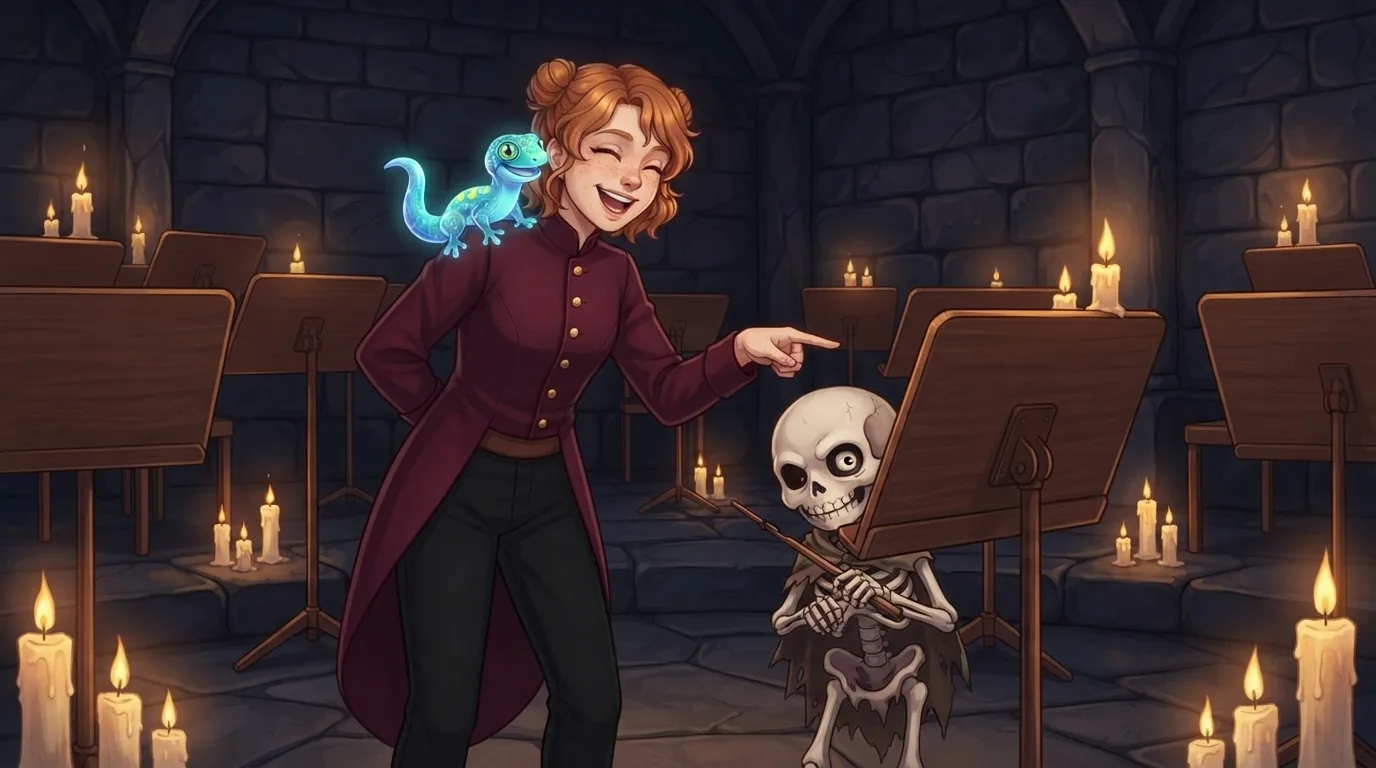
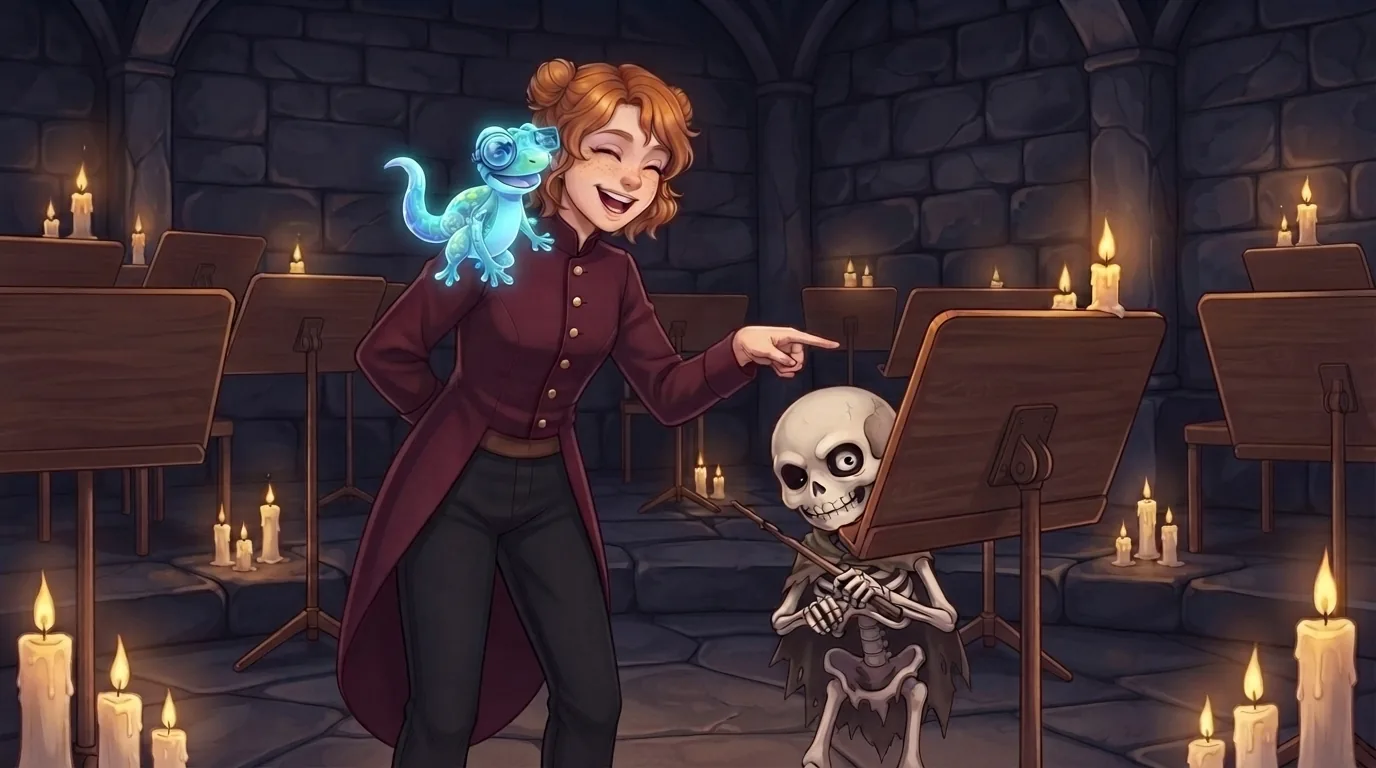
content(csharp): las 10 escenas con Gheco lo muestran como el oficial; pendientes.py ya no pide manchas amarillas
ESCENAS.md anota la imagen de origen, qué referencias difieren (C++ y PHP) y cómo pedirlo en Stitch.

diff --git a/scripts/escenas/pendientes.py b/scripts/escenas/pendientes.py
@@ -45,7 +45,7 @@ REFS = {
             (r'Drag[oó]n', 'el Dragón bajo la Montaña', ['1beb2b13ac2740e39ec873e25f0a9d2a', '05f46ee7ccb54ec5b3521163315fe841'], ''),
             (r'Salamandra', 'la Salamandra del Horno', ['f00b5bd8e0b541fd925273a2f23e8a1e', 'f94717f4f0ea4451a188eeb0c6077d24'], ''),
             (r'Aut[oó]mata Guardi[aá]n', 'el Autómata Guardián', ['be394c154b3544cd84a0f6cb5304046d', 'ae330b94011143dd97df7dab07894b9c'], ''),
-            (r'Gheco|gecko', 'Gheco', ['7475890398726357700'], 'Gheco es un gecko chiquito, que cabe en la palma de una mano, de color cian brillante con manchas amarillas.'),
+            (r'Gheco|gecko', 'Gheco', ['7475890398726357700'], 'Gheco es un gecko chiquito, que cabe en la palma de una mano, exactamente como en su referencia: mascota de caricatura FLACA y ALARGADA (cuello largo, torso angosto, patas finas, cola larga y fina; nunca gordito ni chibi), aguamarina claro translúcido y liso con brillo cian, finas líneas de circuito, antiparras de aviador con lente redondo y visor holográfico al costado, sin manchas.'),
         ],
     },
     # D110: el Gólem duerme debajo de las Forjas, así que sus escenas van en el proyecto de C (ahí están Gheco y Kira).
@@ -59,7 +59,7 @@ REFS = {
             (r'Ax[oó]n', 'Axón', ['a3f048dbdb0144748446e592787f2bdb', 'c4b3a82e96bb49e689670d429bea0fba'],
              'Axón es un gólem de bronce de cuatro metros: Nova le llega a la rodilla.'),
             (r'(?<!que )\bKira\b', 'Kira', ['14393643890262141765', '14393643890262141939'], ''),
-            (r'Gheco|gecko', 'Gheco', ['7475890398726357700'], 'Gheco es un gecko chiquito, que cabe en la palma de una mano, de color cian brillante con manchas amarillas.'),
+            (r'Gheco|gecko', 'Gheco', ['7475890398726357700'], 'Gheco es un gecko chiquito, que cabe en la palma de una mano, exactamente como en su referencia: mascota de caricatura FLACA y ALARGADA (cuello largo, torso angosto, patas finas, cola larga y fina; nunca gordito ni chibi), aguamarina claro translúcido y liso con brillo cian, finas líneas de circuito, antiparras de aviador con lente redondo y visor holográfico al costado, sin manchas.'),
         ],
     },
     'cpp': {
@@ -76,7 +76,7 @@ REFS = {
             # Solo el cuerpo entero: los circulares de este proyecto llevan el nombre escrito y Stitch lo copiaría.
             # Bron y Gheco se generaron en este proyecto el 2026-10-11 desde sus fichas y sus imágenes (no estaban subidos).
             (r'\bBron\b', 'Bron', ['36fd6421d03b45329e15255c57bf1d96'], 'Bron es un mecánico grandote de 24 años, alto y ancho, con una llave inglesa cian al hombro.'),
-            (r'Gheco|gecko', 'Gheco', ['8b96c262b47549dbb5a441fb463377a5'], 'Gheco es un gecko chiquito, que cabe en la palma de una mano, de color cian brillante con manchas amarillas.'),
+            (r'Gheco|gecko', 'Gheco', ['8b96c262b47549dbb5a441fb463377a5'], 'Gheco es un gecko chiquito, que cabe en la palma de una mano, exactamente como en su referencia: mascota de caricatura FLACA y ALARGADA (cuello largo, torso angosto, patas finas, cola larga y fina; nunca gordito ni chibi), aguamarina claro translúcido y liso con brillo cian, finas líneas de circuito, antiparras de aviador con lente redondo y visor holográfico al costado, sin manchas.'),
             (r'\bTesla\b', 'Tesla', ['17568498787211306263'], 'Tesla es un muchacho de estatura mediana (1,75 m), delgado, de pelo en punta y visor cian.'),
             (r'\bLima\b', 'Lima', ['3741430dea15423a86d24bbd54d5c72f'], 'Lima es una chica chiquita (1,52 m), mucho más baja que los demás, con dos rodetes y una lupa de relojera en un ojo.'),
             (r'Maestra Art[ií]fice|[Ii]nspectora', 'la Maestra Artífice', ['4954292303660227400'], 'La Maestra Artífice es una mujer alta (1,72 m), delgada y erguida.'),
@@ -109,7 +109,7 @@ REFS = {
             # Generados en este proyecto el 2026-10-11 (Nilo y Elefa desde sus imágenes oficiales; el resto, desde sus fichas).
             (r'\bNilo\b', 'Nilo', ['3defe2e1780843e09e4c04400943f0b8'], 'Nilo es un muchacho de 17 años, de estatura mediana (1,70 m) y delgado, con gorra de mensajero y bufanda violeta.'),
             (r'\bElefa\b', 'Elefa', ['ede888afd1934fa6a2d4853f2f4ef6b1'], 'Elefa es una elefanta enorme (2,60 m) erguida en dos patas, con armadura: le saca casi un metro a una persona.'),
-            (r'Gheco|gecko', 'Gheco', ['bce6aece6b9c43939e86fd2b757679ad'], 'Gheco es un gecko chiquito, que cabe en la palma de una mano, de color cian brillante con manchas amarillas.'),
+            (r'Gheco|gecko', 'Gheco', ['bce6aece6b9c43939e86fd2b757679ad'], 'Gheco es un gecko chiquito, que cabe en la palma de una mano, exactamente como en su referencia: mascota de caricatura FLACA y ALARGADA (cuello largo, torso angosto, patas finas, cola larga y fina; nunca gordito ni chibi), aguamarina claro translúcido y liso con brillo cian, finas líneas de circuito, antiparras de aviador con lente redondo y visor holográfico al costado, sin manchas.'),
             (r'\bIara\b', 'Iara', ['5d09d4c2cd01468999e671616ec88913'], 'Iara es bajita (1,58 m): más baja que Nilo.'),
             (r'Ferm[ií]n|[Bb]odeguero', 'Fermín', ['fc1a64872e8e420ab4ca98a70c73800a'], 'Fermín es un anciano bajo y encorvado.'),
             (r'\bMarea\b|[Ff]arera', 'Marea', ['15758130c92349e88c7ca83c931fcae1'], 'Marea es una mujer alta (1,78 m) y fuerte: más alta que Nilo.'),
@@ -134,7 +134,7 @@ REFS = {
              'Iris lleva UNA SOLA trenza gruesa, de costado, que le cae sobre un hombro (nunca dos trenzas), pelo castaño cobrizo con mechones de colores dentro de la trenza, anteojos redondos.'),
             (r'Tesela', 'Tesela', ['1156350282938354434', '1156350282938353708'],
              'Tesela e Iris son casi de la misma altura (Tesela apenas unos centímetros más alta).'),
-            (r'Gheco|gecko', 'Gheco', ['11514129442070458985'], 'Gheco es un gecko chiquito, que cabe en la palma de una mano, de color cian brillante con manchas amarillas.'),
+            (r'Gheco|gecko', 'Gheco', ['11514129442070458985'], 'Gheco es un gecko chiquito, que cabe en la palma de una mano, exactamente como en su referencia: mascota de caricatura FLACA y ALARGADA (cuello largo, torso angosto, patas finas, cola larga y fina; nunca gordito ni chibi), aguamarina claro translúcido y liso con brillo cian, finas líneas de circuito, antiparras de aviador con lente redondo y visor holográfico al costado, sin manchas.'),
             # Subidos el 2026-10-10. Solo el cuerpo entero: los circulares llevan el nombre escrito y Stitch lo copiaría.
             (r'\bNora\b', 'Nora', ['e01c853235f1406f8ae015a41a3ddb13'],
              'Nora es ciega y alta, más alta que Iris; lleva túnica gris perla y un bastón blanco.'),
@@ -163,7 +163,7 @@ REFS = {
             (r'\bNilo\b', 'Nilo', ['55c53c1c0629482192ef2cf0e90c7370'], 'Nilo es un muchacho de 17 años, con gorra de mensajero y bufanda violeta.'),
             (r'\bNima\b', 'Nima', ['0f9fcc6dde3f450e96c11f25612bdfa3'], 'Nima tiene la piel morena oscura, una trenza negra alta y un saco de cuero negro largo hasta los muslos, cerrado del cuello hasta abajo.'),
             (r'\bBruno\b', 'Bruno', ['aa2b4f906be344918c60e9553fed907c'], 'Bruno es un chico de 12 años, con gorra negra al revés, chaleco ROJO inflado sobre buzo oscuro.'),
-            (r'Gheco|gecko', 'Gheco', ['11514129442070458985'], 'Gheco es un gecko chiquito, que cabe en la palma de una mano, de color cian brillante con manchas amarillas.'),
+            (r'Gheco|gecko', 'Gheco', ['11514129442070458985'], 'Gheco es un gecko chiquito, que cabe en la palma de una mano, exactamente como en su referencia: mascota de caricatura FLACA y ALARGADA (cuello largo, torso angosto, patas finas, cola larga y fina; nunca gordito ni chibi), aguamarina claro translúcido y liso con brillo cian, finas líneas de circuito, antiparras de aviador con lente redondo y visor holográfico al costado, sin manchas.'),
         ],
     },
     'javascript': {
@@ -187,7 +187,7 @@ REFS = {
             # La segunda referencia es la escena de la calesita (R01-N03-P1): ahí la ropa salió cerrada; con la ficha sola, el modelo liviano a veces le deja la panza al aire.
             (r'\bNima\b', 'Nima', ['2fca95e351484814bbdeb8294f4c623b', 'c1beb5a9084e4492b1d9fb759dd0eb35'], 'Nima aparece UNA sola vez. Nima tiene la piel morena oscura y lleva un saco de cuero negro largo hasta los muslos, cerrado del cuello hasta abajo, que le tapa toda la cintura (si la chaqueta es corta, Stitch le deja la panza al aire).'),
             (r'Lumina', 'Lumina', ['bdf51a14044046ffbd08a31cec35773e'], 'Lumina es una luciérnaga enorme, del tamaño de una persona, que flota: un INSECTO de verdad, como en su referencia (seis patitas, antenas, coronita dorada, alas de vidrio y el abdomen que brilla amarillo); nada de hada ni de cuerpo de persona.'),
-            (r'Gheco|gecko', 'Gheco', ['11514129442070458985'], 'Gheco es un gecko chiquito, que cabe en la palma de una mano, de color cian brillante con manchas amarillas.'),
+            (r'Gheco|gecko', 'Gheco', ['11514129442070458985'], 'Gheco es un gecko chiquito, que cabe en la palma de una mano, exactamente como en su referencia: mascota de caricatura FLACA y ALARGADA (cuello largo, torso angosto, patas finas, cola larga y fina; nunca gordito ni chibi), aguamarina claro translúcido y liso con brillo cian, finas líneas de circuito, antiparras de aviador con lente redondo y visor holográfico al costado, sin manchas.'),
             (r'\bBruno\b', 'Bruno', ['aa2b4f906be344918c60e9553fed907c'], 'Bruno es un chico de 12 años, con gorra negra al revés, chaleco ROJO inflado sobre buzo oscuro y zapatillas rojas.'),
             (r'\bTati\b', 'Tati', ['4ed7e467fe034ed48f852420a3cbebf3'], 'Tati es una chica de 11 años, bajita, de piel clara, dos coletas negras, vestido azul con cuello blanco y delantal amarillo.'),
             (r'\bLucio\b', 'Lucio', ['edd2a5c8a13b42318521115982f1721c'], 'Lucio es un viejo flaco y alto.'),
@@ -239,7 +239,7 @@ REFS = {
              'Iris lleva UNA SOLA trenza gruesa, de costado, que le cae sobre un hombro (nunca dos trenzas), pelo castaño cobrizo con mechones de colores dentro de la trenza, anteojos redondos.'),
             (r'Tesela', 'Tesela', ['1156350282938354434', '1156350282938353708'],
              'Tesela e Iris son casi de la misma altura (Tesela apenas unos centímetros más alta).'),
-            (r'Gheco|gecko', 'Gheco', ['11514129442070458985'], 'Gheco es un gecko chiquito, que cabe en la palma de una mano, de color cian brillante con manchas amarillas.'),
+            (r'Gheco|gecko', 'Gheco', ['11514129442070458985'], 'Gheco es un gecko chiquito, que cabe en la palma de una mano, exactamente como en su referencia: mascota de caricatura FLACA y ALARGADA (cuello largo, torso angosto, patas finas, cola larga y fina; nunca gordito ni chibi), aguamarina claro translúcido y liso con brillo cian, finas líneas de circuito, antiparras de aviador con lente redondo y visor holográfico al costado, sin manchas.'),
             (r'\bNora\b', 'Nora', ['e01c853235f1406f8ae015a41a3ddb13'],
              'Nora es ciega y alta, más alta que Iris; lleva túnica gris perla y un bastón blanco.'),
             (r'\bTeo\b', 'Teo', ['21a330a7f37f44ae88efae1965f5261c'],
@@ -261,7 +261,7 @@ REFS = {
             (r'\bMia\b', 'Mia', ['5963293020836080820'], 'Mia es bajita (1,55 m) y delgada.'),
             (r'\bTilo\b', 'Tilo', ['5696938930910017018'], 'Tilo es un chico bajo, flaco y fibroso, descalzo.'),
             (r'Ofidia', 'Ofidia', ['10928700517117951865'], 'Ofidia es muy alta (1,90 m) y esbelta: le saca más de una cabeza a Mia.'),
-            (r'Gheco|gecko', 'Gheco', ['15690829756280996174'], 'Gheco es un gecko chiquito, que cabe en la palma de una mano, de color cian brillante con manchas amarillas.'),
+            (r'Gheco|gecko', 'Gheco', ['15690829756280996174'], 'Gheco es un gecko chiquito, que cabe en la palma de una mano, exactamente como en su referencia: mascota de caricatura FLACA y ALARGADA (cuello largo, torso angosto, patas finas, cola larga y fina; nunca gordito ni chibi), aguamarina claro translúcido y liso con brillo cian, finas líneas de circuito, antiparras de aviador con lente redondo y visor holográfico al costado, sin manchas.'),
             (r'Guardi[aá]n del Puente', 'el Guardián del Puente', ['13111980321235167624'], ''),
             (r'Archivista', 'el Archivista Corrupto', ['76f4476e7b8e459fa75b72cbe7906fbb'], ''),
             (r'G[oó]lem', 'el Gólem del Reloj', ['11d43dda059d4a2b8de8c6e1c8077d0c'], ''),
@@ -295,7 +295,7 @@ REFS = {
             (r'\bZed\b', 'Zed', ['5522991768613220027'], 'Zed es alto (1,80 m), delgado y fibroso.'),
             (r'\bNadia\b', 'Nadia', ['17346538076052872870'], 'Nadia es de estatura mediana, más baja que Zed, muy erguida.'),
             (r'\bKaffa\b', 'Kaffa', ['8221925489435297833'], 'Kaffa es alto, de hombros anchos, más alto que Zed.'),
-            (r'Gheco|gecko', 'Gheco', ['7453549721618962721'], 'Gheco es un gecko chiquito, que cabe en la palma de una mano, de color cian brillante con manchas amarillas.'),
+            (r'Gheco|gecko', 'Gheco', ['7453549721618962721'], 'Gheco es un gecko chiquito, que cabe en la palma de una mano, exactamente como en su referencia: mascota de caricatura FLACA y ALARGADA (cuello largo, torso angosto, patas finas, cola larga y fina; nunca gordito ni chibi), aguamarina claro translúcido y liso con brillo cian, finas líneas de circuito, antiparras de aviador con lente redondo y visor holográfico al costado, sin manchas.'),
             (r'Escriba', 'el Escriba Jefe', ['b12044f03eb646dca40ac3c69a952478'], 'El Escriba Jefe es bajo, panzón y un poco encorvado.'),
             (r'Maestra de Moldes', 'la Maestra de Moldes', ['8bed9638b6a0475a9f697e8c247b0e30'], 'La Maestra de Moldes es alta y de hombros anchos.'),
             (r'Archivista', 'el Archivista Mayor', ['f64f0eb5f95045789403ea7d4bf54696'], 'El Archivista Mayor es alto y muy flaco, un poco encorvado.'),

diff --git a/docs/ESCENAS.md b/docs/ESCENAS.md
@@ -39,6 +39,17 @@ gasta la cuota enseguida. El 2026-10-09 se cortó después de `R00-N01-P4`.
 Si una llamada a Stitch se corta por tiempo, la pantalla igual puede aparecer: buscarla con `get_screen` no sirve sin el
 id, así que se vuelve a pedir.
 
+## Gheco: siempre el mismo (2026-11-05)
+
+La imagen oficial es `gheco-code.webp`, del proyecto de Stitch `10046788797115308866`, donde se creó. Es **flaco y alargado, aguamarina claro translúcido y liso, con finas líneas de circuito, antiparras de aviador con lente redondo y visor holográfico chico pegado a la cabeza**. **Sin manchas**: la nota vieja de `pendientes.py` decía «manchas amarillas» y producía otro gecko (corregida en todos los cursos).
+
+Referencias por proyecto: Python y Java tienen el archivo idéntico; C, Ensamblador, HTML, JS, C#, inglés, el mismo dibujo con fondo (`GhecoCode.jpeg`). **C++ y PHP tienen uno regenerado, distinto** (`8b96c262…`, `bce6aece…`): no usarlos como modelo; si se hacen escenas nuevas ahí, subir antes la imagen oficial.
+
+Qué anduvo (C#, con `GEMINI_3_8_FLASH`; el modelo liviano lo achica y le deja manchas):
+- `[escena, referencia de Gheco]`, cambiando solo el gecko, describiendo la silueta y prohibiendo las manchas. Sin «flaco y alargado, nada de chibi» sale gordito.
+- Si en el hombro sale gigante o colgando hasta el suelo, pedir «su cabeza a la altura de la de ella, la cola hasta la mitad de la espalda» o pasarlo a una mesa o mostrador. Mejor `[escena, escena con Gheco bien]`, copiándolo tal cual.
+- Revisar: a veces quedan dos geckos, el visor despegado o restos del anterior. Para borrar un resto, retocar con PIL: pedirle a Stitch que lo borre puede rehacer toda la imagen y cambiarle el color (`R01-N02-P2`).
+
 ## Estado
 
 | Curso | Hechas | Notas |
@@ -51,7 +62,7 @@ id, así que se vuelve a pedir.
 | Ensamblador | 144 de 144 | Completo (2026-10-20; el 2026-10-28 se sumó `R01-N05-P8`, la del código máquina). En R04 se retocaron con PIL `R04-N01-P5` (séptima pila de monedas), `R04-N01-P6` (garabatos del pergamino), `R04-N02-P2` (tres casilleros en fila), `R04-N02-P4` (cartel con texto) y `R04-N04-P3` (sobraba una lucecita). Detalles chicos aceptados: en `R04-N01-P2` a `P4` Nova tiene el pelo más corto (el modelo liviano lo acorta), `R04-N03-P1` tiene líneas de viñeta en el cielo, el tablero de R04-N02 no es exactamente 10×10. Cuando el modelo normal de Stitch se corta por tiempo, `modelId: GEMINI_3_5_FLASH_LITE` responde rápido; si dice que la imagen «ya existe» sin devolverla, pedir «Generate a new image; do not reuse an existing one». En R03 se retocaron con PIL `R03-N03-P5` (papelito con garabatos) y `R03-N05-P4` (texto en las etiquetas). El Ogro de las Banderas de R02-N09 sale bien descrito con palabras (calvo, piel gris verdosa, chaleco de cuero, brazaletes); su escena `aaecc2eb…` sirve de referencia. Cuando Stitch no saca letras o cuentas (estrellas con letras en `R02-N05-P3`, pizarrita en `R02-N06-P4`), se corrigió con PIL sobre la imagen; pedirle «borrá el texto» a veces escribe más texto. Vasos y jarras sin espuma (alumnos chicos). Pedidos cortos y una sola referencia: con dos se corta seguido. **Arreglos de anatomía (señalados por el docente el 2026-10-19), ya rehechos:** `R00-N01-P4` (Nova con un brazo de más), `R01-N03-P1` (Gheco con patas de más), `R01-N02-P1` y `R01-N02-P2` (Gheco con dedos de más). Quedaron muy parecidas entre sí (`R01-N02-P1`, `P2` y `R01-N03-P1`): variarlas si sobra cuota. Revisar SIEMPRE brazos, patas y dedos antes de guardar, y pedir «Nova con exactamente DOS brazos» y «Gheco con CUATRO patas». Los ids de Stitch de cada escena nueva van en `scripts/escenas/ids/ensamblador.json`. |
 | Ensamblador (antes) | 26 de 31 | Faltan `R01-N03-P7` y `R01-N04-P1`, `P3`, `P6` y `P7` (2026-10-19): las que llevan a Axón o a Kira se cortan por tiempo, con su ficha o descritos con palabras; las de Nova sola salen. En `R01-N04-P5` Stitch cambió a Nova (pelo castaño corto) y se corrigió con [escena, ficha de Nova] y «la chica pasa a ser Nova exactamente como en la segunda»; en `P2` y `P4` sobraba un Gheco (pedir «borrá el gecko de…»). Para rehacer si sobra cuota: `R01-N03-P3` y `P4` (la mochila salió con 3 y 4 bolsillos, no 5) y `P6` (Nova repite la pose de `P5` y no saca la moneda). En R01-N03 anduvo pedir con una sola referencia, la escena `R01-N03-P1` (`9010b157…`), y la mochila de `P3` (`eb5697f1…`); con dos referencias se cortaba seguido. Las primeras 17, en el **proyecto de C** (el Gólem duerme debajo de las Forjas). Nova, Axón, el fondo del interior del Gólem, el logo, la moneda (chispa) y los 6 aspectos de Nova se generaron ahí (`REFS['ensamblador']`). Las escenas usan como referencia el fondo + la ficha de Nova + Gheco, o una escena anterior del mismo lugar (la sala del ojo, la pared de cajones); encadenar siempre la misma da poses repetidas: alternar. Los 6 aspectos salieron en una sola hoja 3×2 recortada con PIL. El 2026-10-19 Nova pasó al diseño recatado (capa de cuello alto, ropa opaca; ficha `66dcc917…`): las 17 escenas, la ficha de Axón y los aspectos se rehicieron con `edit_screens` [escena, ficha de Nova] y el pedido «la chica holograma pasa a ser Nova exactamente como en la segunda, misma pose y lugar». Revisar que no aparezca texto en los visores. |
 | PHP | 273 de 273 | **Completo (2026-10-26)**; falta importar en local y `deploy.sh --cursos`. Lecciones del cierre (S03-N03 a S04): con el modelo liviano anduvo pedir «from scratch» con las fichas de Nilo e Iara (`3defe2e1…`, `5d09d4c2…`) cuando la escena anterior como referencia le sacaba a Nilo la gorra y la bufanda o lo vestía de remera; encadenar la misma escena repite la pose (y una vez salieron dos Nilos y dos Gheco). Si Stitch devuelve un enlace de `stitch.googleapis.com` (pide credenciales), bajar con `download_file` y pasarle a `guardar.py` el .txt de la respuesta. Un pedido de corrección a veces vuelve cuadrado (1024×1024): repetirlo pidiendo «same horizontal 16:9 format». Arreglos con PIL: una orca de más en el cielo (`S03-N03-P3`), letreros y pizarrones con letras (`S04-N01-P1`, `S04-N03-P2` «HARBOR» en tiza, `S04-N04-P3`, `S04-N05-P1`, `S04-N05-P2`) y garabatos en un papel (`S04-N03-P1`). Se rehizo `S04-N01-P1` porque el vidrio roto parecía un robo (alumnos chicos). Antes: Micro-misiones de D111 desde el 2026-10-21; el 2026-10-23 se completaron R01 y R02 y R03-N01 a N03; el 2026-10-25/26, R03, R04, R05 y S01-N01 a N04-P2 (ids en `scripts/escenas/ids/php.json`); sigue `S01-N04-P3`. Ojo en R05: la cola de Gheco se le pegaba a Nilo como cola cian (pedir «an ordinary human boy with no tail»); Elefa lejos sale vestida como Nilo (traerla al frente y describir la armadura «head to toe»); el bolso remendado de Nilo trae a veces un parche cian con forma de gecko, que vale (Iara se lo cosió después de la Gorgona). `guardar.py` ya recorta solo las franjas negras que agrega Stitch. Antes: sigue `R03-N05-P1`; antes `R01-N05-P6`. Lo que anduvo: las fichas con «from scratch» o la escena anterior como única referencia; si la anterior tiene un barco o un objeto llamativo, lo arrastra (el barco tortuga). Elefa sale del tamaño de una persona si no se pide «HUGE, almost one meter taller than every person»; volvió la cola cian suelta (corregida con «remove the glowing cyan tail»). Stitch escribió «La Fonda del Puerto» en el cartel porque lo puso en su propio pedido: corregir con «plain bare wood with a small carved drawing». La pipa del capitán de `R01-N03-P7` se sacó (alumnos chicos). Antes: la Clase 0 y R01 completos (2026-10-13), más 18 sueltas de R03–R05 hechas para la temporada del Puerto (2026-10-14, fila de abajo); R02-N01 a R02-N08 (2026-10-18), encadenando cada escena con la anterior del mismo lugar; sigue `R02-N08-P4`. Ojo en R02: Stitch escribió «LEFT/RIGHT» junto a flechas y rotulitos en estantes (tapados con PIL), a veces dibuja un segundo Gheco en un cartel o le da a Elefa dos bastones (pedir «sostiene con LAS DOS MANOS su ÚNICO bastón»); con la referencia de una escena, Iara y Elefa pueden perder su ropa: corregir pasando su ficha como segunda referencia. La Sirena ya está descrita con blusa cerrada en los .md y en PERSONAJES.md. Ojo: a veces sale un segundo Gheco o una cola cian suelta; pedir «UN SOLO Gheco». Para rehacer si sobra cuota: `R01-N08-P4` (las cajas no quedaron una dentro de la otra). Gheco a veces sale más grande que una mano y algún número de objetos no coincide (3 cajones en vez de 4): se dejaron cuando no cambia la escena. Historia, personajes y mapa en el proyecto de PHP (`REFS['php']`, docs/historias/php.md). Ojo: una corrección con `edit_screens` puede redibujar la escena entera (la de Elefa en el mostrador perdió la gorra de Nilo al arreglarle la bufanda): mirar cada versión. |
-| C# | 25 de 25 | Demostración completa (2026-11-04), en el proyecto de la Feria. Con Ceci, usar siempre su ficha `6d9cb358…` como referencia, y pedir «pantalón oscuro, sin falda»: tomando como referencia una escena con ella, salía con falda. |
+| C# | 25 de 25 | Demostración completa (2026-11-04), en el proyecto de la Feria; el 2026-11-05 se rehicieron las 10 con Gheco para que sea el oficial (ver arriba). Con Ceci, usar siempre su ficha `6d9cb358…` como referencia, y pedir «pantalón oscuro, sin falda»: tomando como referencia una escena con ella, salía con falda. |
 | JavaScript | 171 de 313 | En curso (2026-11-04): Clase 0, R01, R02 y R03 completas; de R04, N01 a N06 y N07-P1 a P4, sigue `R04-N07-P5`. **Desde `R04-N05-P1` Nima va con saco de cuero largo hasta los muslos** (`pendientes.py` y referencia `0f9fcc6d…`): con la chaqueta corta Stitch le dejaba la panza al aire casi siempre y el parche de `tapar.py` se notaba; las escenas anteriores siguen con la corta. Se puede pedir corto si se usa de referencia una escena buena con los mismos personajes (Nima y Saeta `a409a244…`, torre con campana `08fc7b12…`, Nilo y Elefa `b003d98a…`). Sin la referencia de cuerpo entero de Nima `2fca95e3…` (y aun con ella) se le ve piel en la cintura o la espalda: se tapa con `tapar.py … piel 24`. Si la referencia ya tiene a un personaje, puede salir repetido: pedir «exactamente tres figuras». Hilván salía aniñado o moreno: `pendientes.py` lo pide «HOMBRE ADULTO», y si salen dos iguales, pedir «exactamente UN solo Hilván» y decir dónde está parado. Los títeres de bailarina salían como chicas reales: pedirlos chiquitos, de madera con articulaciones y vestido largo. Con una «escena sin personas» conviene describir el esqueleto o la criatura. Revisar siempre cajones y carteles: en `R03-N06-P6` Stitch escribió su pedido negativo en los cajones (se tapó). Se pueden mandar 3 pedidos de Stitch a la vez. Bruno, Tati, Hilván y Gheco salían con otra ropa o color aunque estuviera la referencia: `pendientes.py` ya describe su ropa en cada pedido, y conviene sumar como referencia una escena buena con ellos (Hilván y Nima `938608ee…`, Bruno y Tati `9b10bc57…`). Los telones de fondo y los talleres con engranajes salen con runas o signos: pedir «fondo de tela lisa» y «cuarto de paredes de madera lisa, sin engranajes ni luces de colores». Los farolitos de papel salen con trazos que parecen letras chinas: pedir «lamparitas redondas de vidrio». Detalles aceptados: círculos decorativos en `R03-N02-P3` y triángulos en el telón de `R03-N02-P5`. `pendientes.py` ya arma el pedido de JS con la 2.ª referencia de Nima, «UNA sola vez», Lumina como insecto (salía hada) y el cierre corto «Imagen solo de dibujo, sin escritura» (el pedido negativo largo lo escribía en los papeles). Antes de mandar, cambiar a mano lo que invita a escribir: «cartel», «número», «cuentas», «lista» → dibujitos, rayitas de tiza, puntitos, monedas; las boleterías salen con «TICKET» en el frontón: pedir «el frontón, solo con flores pintadas»; las estrellas pintadas, como chispa; los palitos de a cinco salían como letras chinas (usar puntitos); con gente en fila, pedir aldeanos europeos (chalecos, boinas, faldas largas) o salen kimonos. Si salen dos Gheco, regenerar con «un solo Gheco» (borrarlo deja mancha). Piel de Nima a la vista: `tapar.py ESCENA X0 Y0 X1 Y1 piel 24` la pinta como remera oscura. Los orcos de feria usan la referencia del ogro de la Feria (gris azulado, pelo naranja; sin ella salían como goblins). Stitch sigue escribiendo su propio pedido negativo («ABSOLUTELY NO LETTERS…») en papeles y carteles, y a veces deja a Nima con la panza al aire aun con la 2.ª referencia: se tapan con `python3 scripts/escenas/tapar.py ESCENA X0 Y0 X1 Y1 oscuro|claro UMBRAL` (letras oscuras o piel clara, rellenando con lo de alrededor); las ediciones de Stitch para arreglarlo a veces rehacen la escena entera o la parten en dos viñetas. Proyecto de los **Talleres** (`9229721314509917104`, ahí estaban Nima, Lumina y Gheco); la gente de la Feria y los cruces (Nilo, Iara, Elefa, Pico, Nova, Axón) se dibujaron ahí el 2026-10-30 (ids en `REFS['javascript']`). **Lecciones:** «faroles de papel» vuelve la Feria un festival japonés con letras orientales y máscaras: el ambiente pide «feria de pueblo europea antigua… nada oriental»; pizarras: describir lo que tienen (estrellitas, círculos de tiza), nunca «sin letras» (escribió «NO letters» en la pizarra); estrellas pintadas, «rellenas» o un sol (salió un pentagrama); Gheco con una lupa sale enorme: «cabe en la palma de una mano»; los ogros de feria, verdes, salían como Shrek: ahora tienen referencia propia (gris azulado, pelo naranja); si un cartel sale con letras, se corrige editando esa misma pantalla («borrá las letras y pintá estrellitas»), pero a veces la edición rehace toda la escena (Nima salió de soldado): si pasa, generarla de nuevo desde las referencias, describiendo qué tiene dibujado cada papelito. Con el modelo liviano Nima a veces sale con la panza al aire: por eso lleva de segunda referencia la escena de la calesita (R01-N03-P1); `pendientes.py` pone una sola pantalla por personaje, así que esa se agrega a mano. Una vez escribió el pedido negativo como texto al pie: se recorta la franja. Con 2–3 referencias y el modelo liviano salen casi todas al primer intento. |
 | Inglés · Forjas (temporada 2) | 24 de 24 | Completo (2026-10-14): una portada por episodio, tronco y ramas, `FORJAS-01` a `FORJAS-12` (Ada niña) y `FORJAS-S01` a `FORJAS-S12` (Ada de 15), en `cursos/ingles/escenas/`; las misiones reusan las de C. Hechas en el **proyecto de C** (`12453694413360128121`): Stitch solo toma referencias del mismo proyecto, así que primero se recrearon las hojas de Ada niña (`4eb59d68037844c09f3cf2aafdd77cd4`) y de Ada de 15 (`a94bdbb01fe44e2eb49eea421419838c`) con Eco y el Borrón desde sus fichas, y después cada portada con la hoja + el personaje de la región. **Cada temporada nueva repite esto en el proyecto de su región.** De a una llamada (dos en paralelo ya se cortan); para pasar una escena de Ada niña a Ada de 15, «como la segunda, pero con Ada de 15 de la primera» con la portada de Primaria como referencia sale a la primera. Ojo: a veces le saca las cejas o el pelo a quien no corresponde, o escribe un título: revisar cada una. |
 | Inglés · Puerto (temporada 3) | 24 de 24 | Completo (2026-10-14): `PUERTO-01` a `PUERTO-12` (Ada niña) y `PUERTO-S01` a `PUERTO-S12` (Ada de 15) en `cursos/ingles/escenas/`, hechas en el **proyecto de PHP** con las hojas de Ada recreadas ahí (niña `fd32dbcd41874f3ebedd1802bb364b76`, de 15 `ec1abd3a409d48b58277a0408b62d043`). Para las de Secundaria anduvo mejor el pedido **corto** «como la segunda, con Ada de 15 y Eco joven de la primera» (los largos se cortan por tiempo). Ojo: la Sirena salió sin mangas en una (corregida: blusa cerrada con mangas y cuello alto), en otra quedaron dos Ecos y en otra un título y palabras en el agua. De paso se hicieron **18 escenas de PHP** (R01-N10-P3/P4, R03-N04, R04-N01, R04-N02-P1, R04-N07, R05-N06-P3, R05-N07, R05-N08-P2) que usan el curso y la temporada; usar la escena anterior como única referencia (con los personajes ya dibujados) es lo que menos se corta. |
